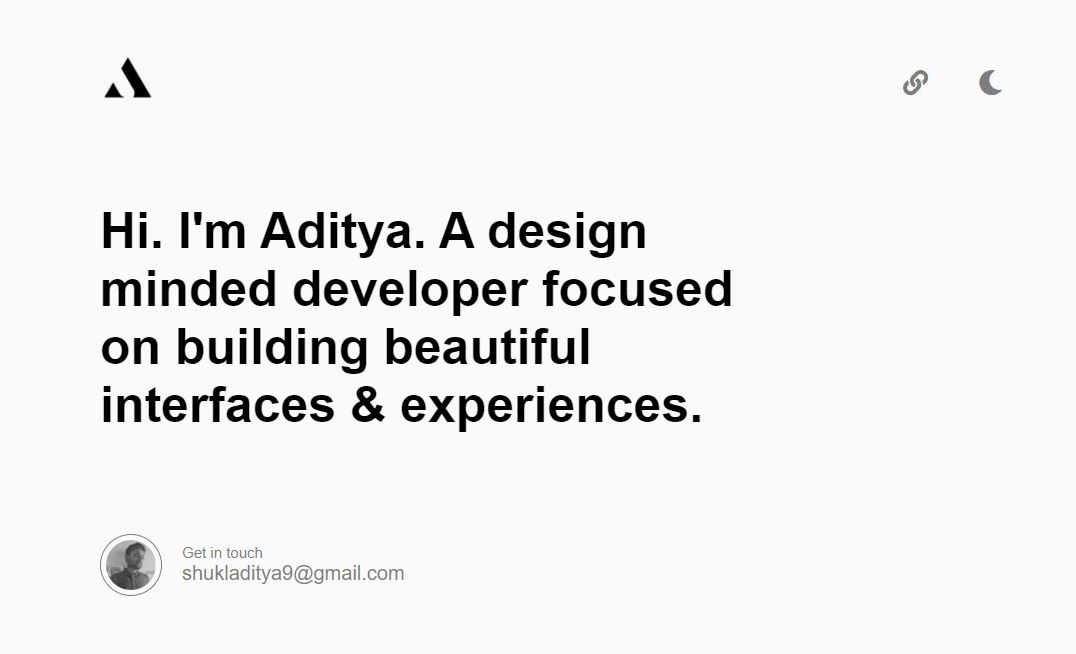
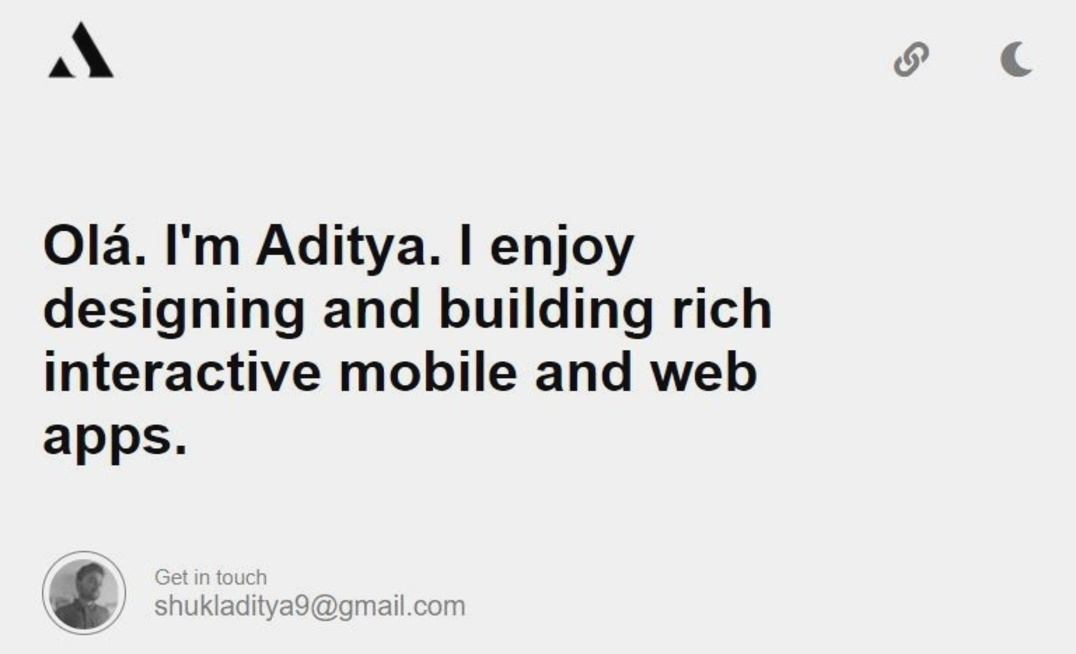
updating headline and metatag

diff --git a/index.html b/index.html
@@ -3,20 +3,20 @@
 <head>
 	<title>Aditya Shukla</title>
 	<meta name="title" content="ADITYA SHUKLA |PORTFOLIO">
-<meta name="description" content="Hi. I'm Aditya. A design-minded developer focused on building beautiful interfaces & experiences.">
+<meta name="description" content="Olá. I'm Aditya. I enjoy designing and building rich interactive mobile and web apps.">
 
 <!-- Open Graph / Facebook -->
 <meta property="og:type" content="website">
 <meta property="og:url" content="https://shukladitya.github.io/">
 <meta property="og:title" content="ADITYA SHUKLA |PORTFOLIO">
-<meta property="og:description" content="Hi. I'm Aditya. A design-minded developer focused on building beautiful interfaces & experiences.">
+<meta property="og:description" content="Olá. I'm Aditya. I enjoy designing and building rich interactive mobile and web apps.">
 <meta property="og:image" content="https://raw.githubusercontent.com/shukladitya/shukladitya.github.io/master/css/asset/metatag.JPG">
 
 <!-- Twitter -->
 <meta property="twitter:card" content="summary_large_image">
 <meta property="twitter:url" content="https://shukladitya.github.io/">
 <meta property="twitter:title" content="ADITYA SHUKLA |PORTFOLIO">
-<meta property="twitter:description" content="Hi. I'm Aditya. A design-minded developer focused on building beautiful interfaces & experiences.">
+<meta property="twitter:description" content="Olá. I'm Aditya. I enjoy designing and building rich interactive mobile and web apps.">
 <meta property="twitter:image" content="css/asset/metatag.jpg">
 <meta name="viewport" content="width=device-width, initial-scale=1.0">
 	<link rel="icon" href="css/asset/logodark.png" type="image/png" sizes="16x16">
@@ -32,7 +32,7 @@
 		<input style="opacity: 0;transform: scale(0);" type="text" value="http://shukladitya.github.io/" name="">
 	</div>
 	<div id="intro">
-		<h1>Hi. I'm Aditya. A design minded developer focused on building beautiful interfaces & experiences.</h1>
+		<h1>Olá. I'm Aditya. I enjoy designing and building rich interactive mobile and web apps.</h1>
 		<div id="outerradi">
 			<div id="avatar"></div>
 		</div>
